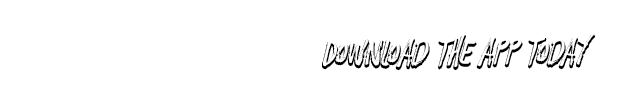
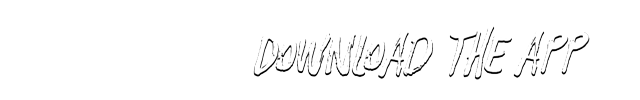
one

Changed region(s): [[0.375, 0.3, 0.9375, 0.81], [0.7812, 0.75, 0.8125, 0.78]]

diff --git a/dev/std_320x50/_styles/css/main.css b/dev/std_320x50/_styles/css/main.css
@@ -277,9 +277,9 @@ sup {
 }
 
 .phone {
-  -webkit-transform: translate(0px, 90px) scale(0.5, 0.5);
-  -ms-transform: translate(0px, 90px) scale(0.5, 0.5);
-  transform: translate(0px, 90px) scale(0.5, 0.5);
+  -webkit-transform: translate(-15px, 90px) scale(0.5, 0.5);
+  -ms-transform: translate(-15px, 90px) scale(0.5, 0.5);
+  transform: translate(-15px, 90px) scale(0.5, 0.5);
   -webkit-backface-visibility: hidden;
   backface-visibility: hidden;
   -webkit-perspective: 1000px;

diff --git a/dev/std_320x50/index.html b/dev/std_320x50/index.html
@@ -48,7 +48,7 @@
 		<!-- <img class="retina cta_odds" src="./images/cta_odds.png" inline> -->
 		
 
-		<img class="phone_scribble" src="./images/phone_scribble.png" inline>
+		<!-- <img class="phone_scribble" src="./images/phone_scribble.png" inline> -->
 		<img class="retina phone" src="./images/phone.png" inline>
 
 		<img class="retina footer" src="./images/footer.png" inline>

diff --git a/dev/std_320x50/_styles/scss/main.scss b/dev/std_320x50/_styles/scss/main.scss
@@ -2,7 +2,7 @@
 
 @import '../../../_common/styles/common.scss';
 
-.frame1 {
+.frame2 {
 	// opacity: 1;
 }
 
@@ -45,7 +45,7 @@
 }
 
 .phone{
-	@include pos-scale(0, 90, .5);
+	@include pos-scale(-15, 90, .5);
 }
 
 .phone_scribble{
